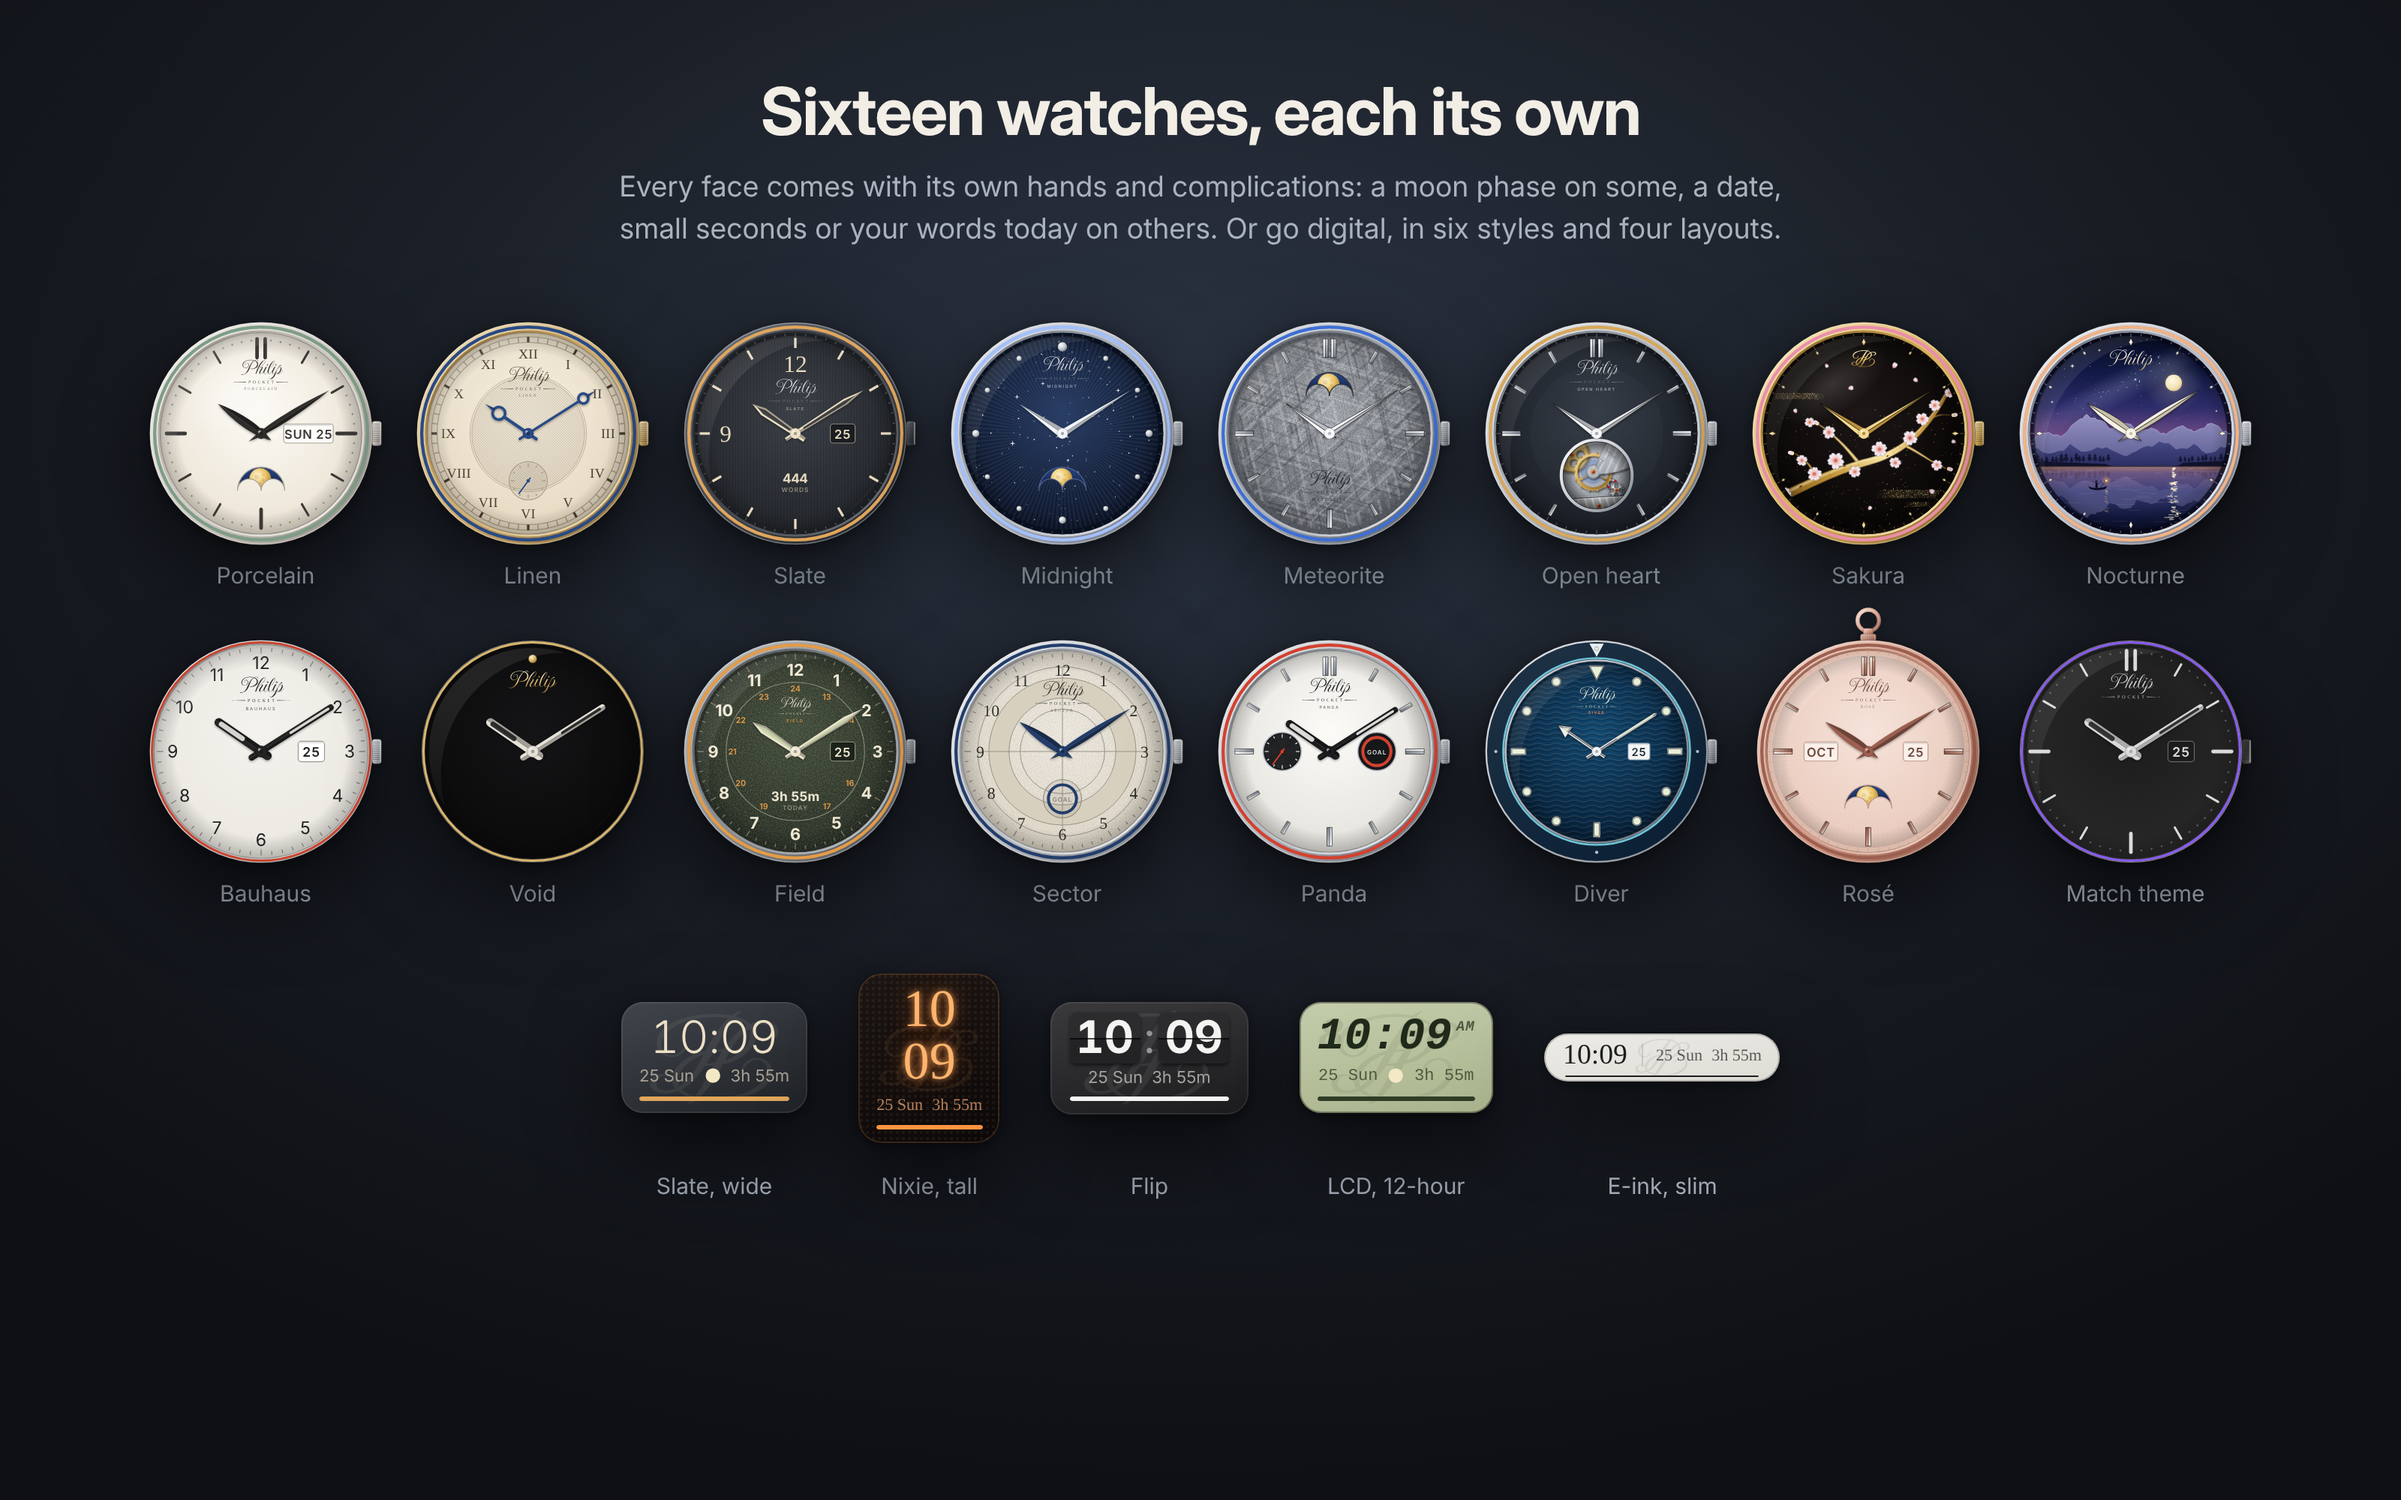
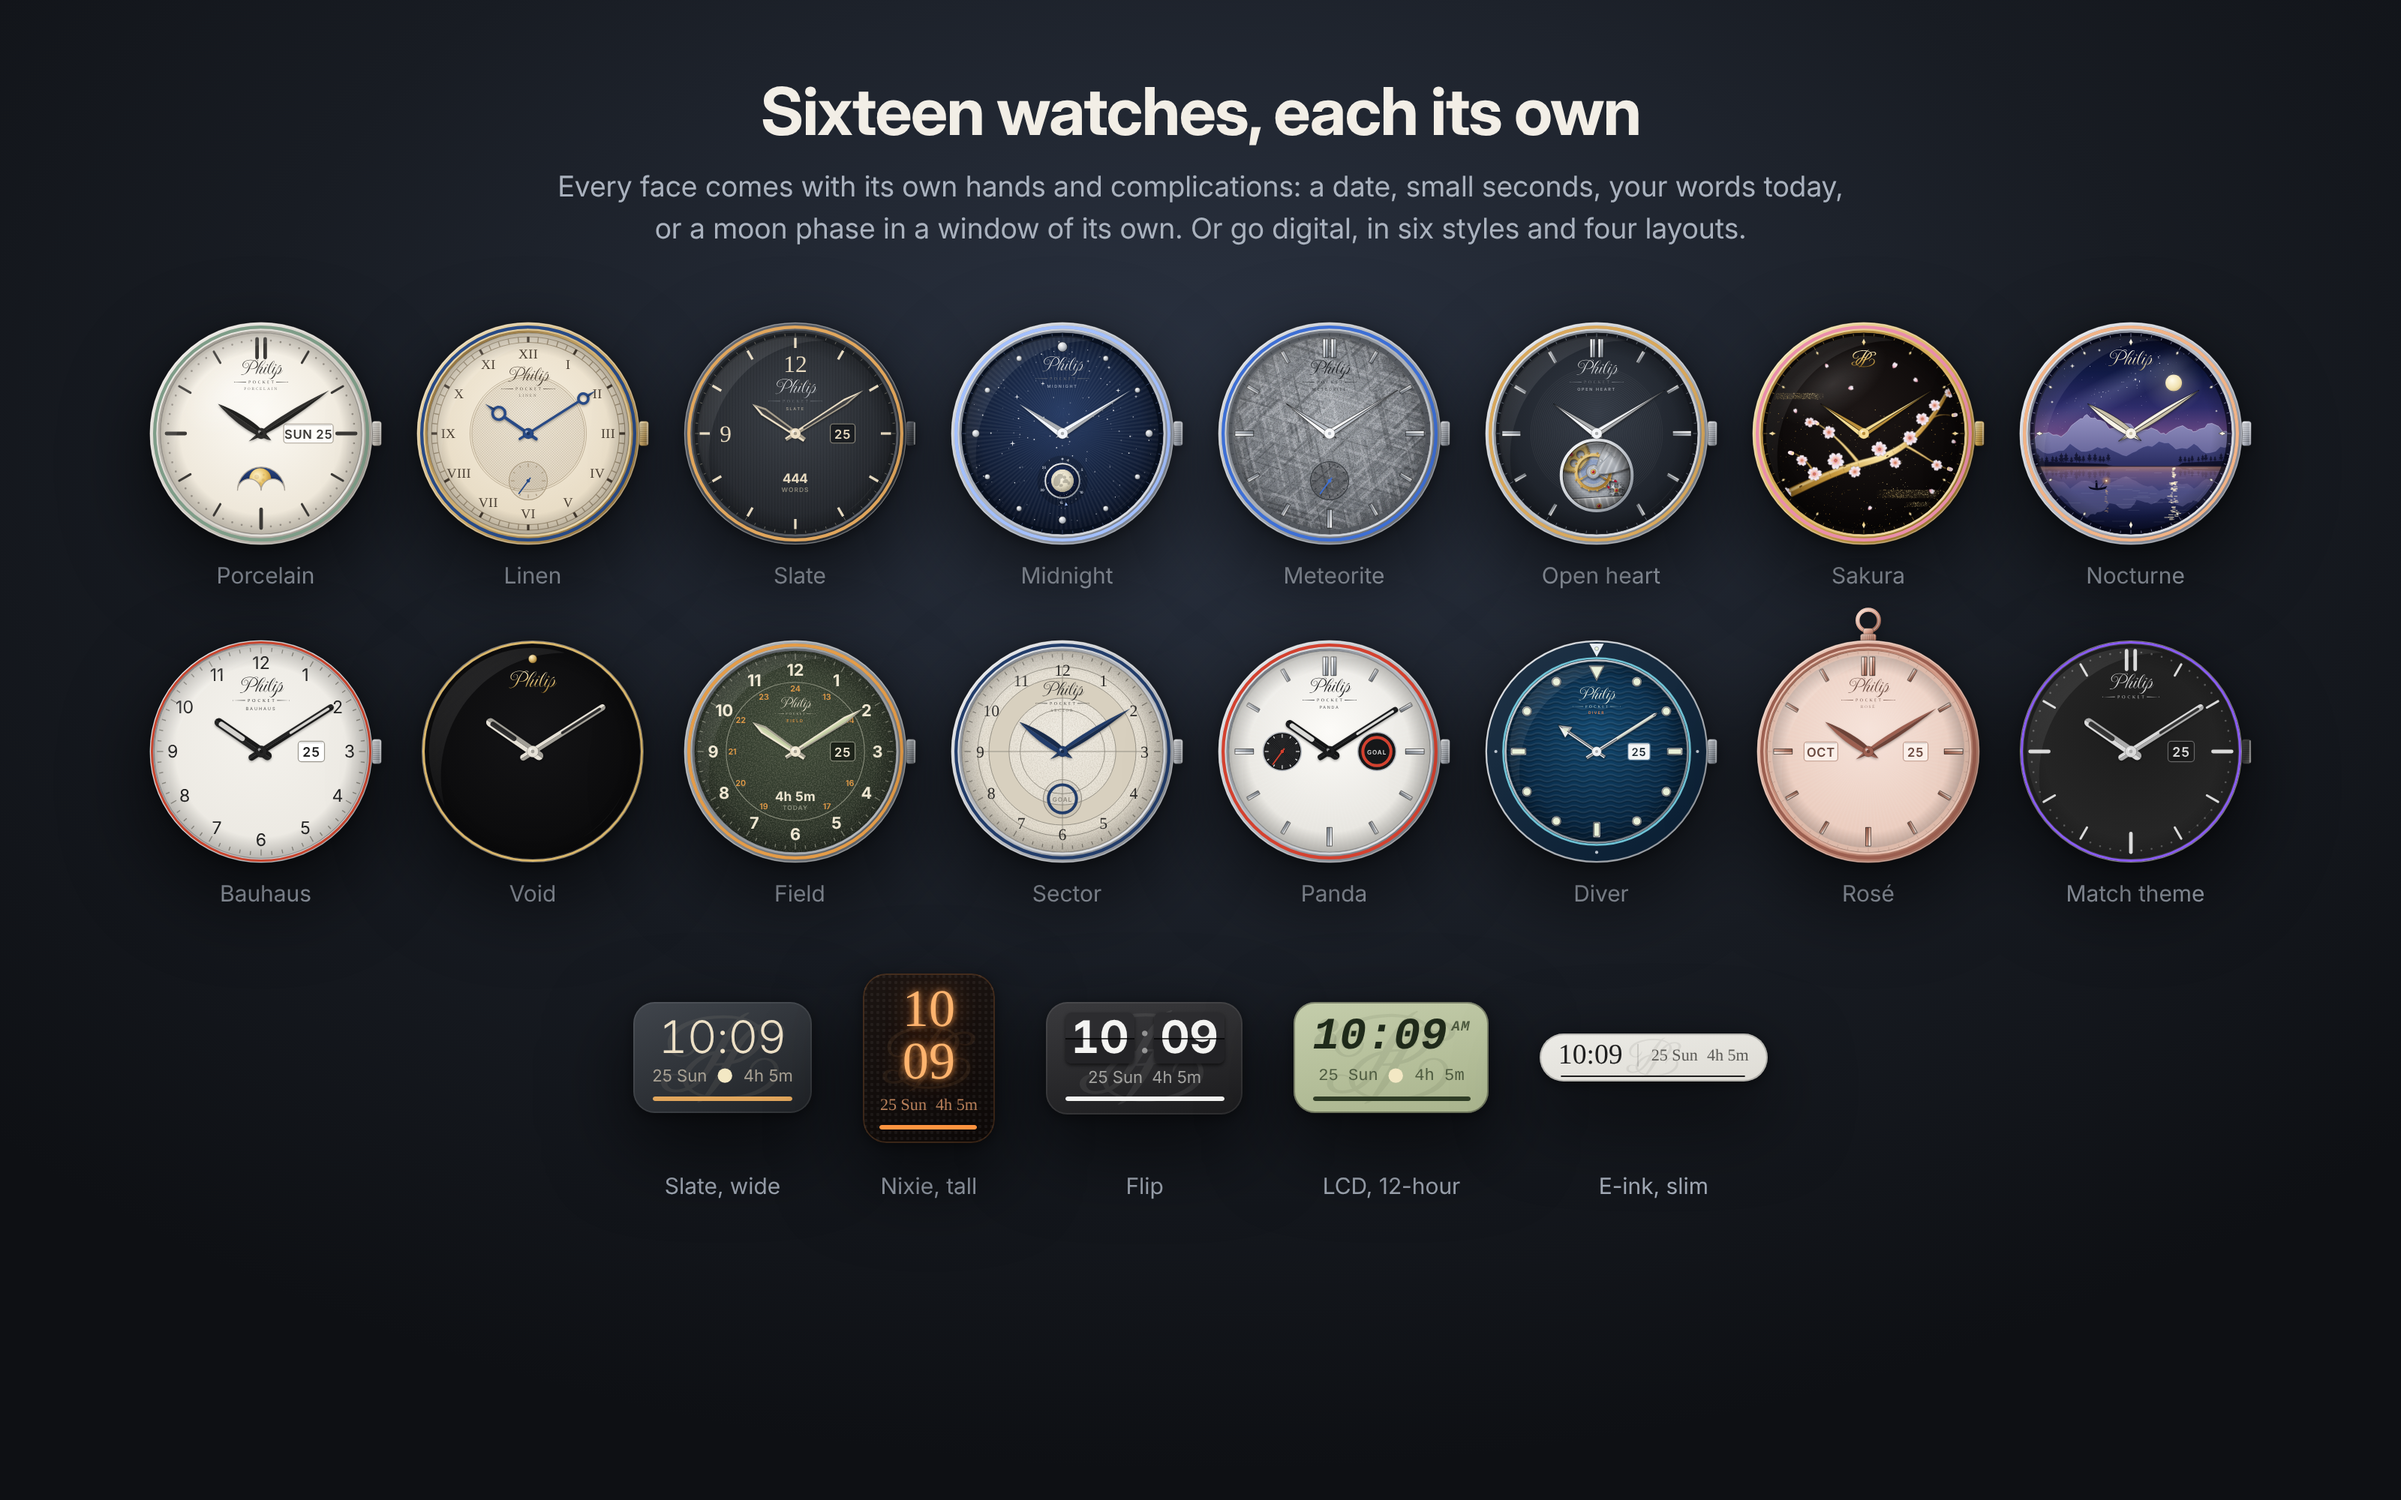
Moon phase on two faces only, each in its own window
Porcelain keeps the classic arched window with its turning disc of gold
moons. Midnight gets a round window onto a realistic moon: its seas and
craters, lit as it is tonight, with a soft edge to the shadow and
earthshine on the dark side, and a scale of the moon's age in days around
the window with a pointer at tonight's age. Meteorite now has small
seconds at 6 (and its signature back under 12), and Rosé its month and
date. Both windows can be chosen for any face under Your own.

Claude-Session: https://claude.ai/code/session_01FHA94H9fv6HvKzz34dRdj9

diff --git a/main.js b/main.js
@@ -30,7 +30,7 @@ const ANALOG_FACES = {
   },
   midnight: {
     name: 'Midnight', case: 'polished', markers: 'dots', decor: 'aventurine', texture: 'sunburst', flange: true, applied: true,
-    hands: 'dauphine', set: { slotBottom: 'moon' },
+    hands: 'dauphine', set: { slotBottom: 'moon-age' },
   },
   sakura: {
     name: 'Sakura', case: 'polished', markers: 'pips', art: 'sakura', flange: true, applied: true, brand: 'monogram',
@@ -42,7 +42,7 @@ const ANALOG_FACES = {
   },
   meteorite: {
     name: 'Meteorite', case: 'polished', markers: 'batons', art: 'meteorite', texture: 'grain', flange: true, applied: true, brandInk: true,
-    hands: 'dauphine', set: { slotTop: 'moon' },
+    hands: 'dauphine', set: { slotBottom: 'seconds' },
   },
   openheart: {
     name: 'Open heart', case: 'polished', markers: 'batons', texture: 'azurage', flange: true, applied: true, window: 'slotBottom',
@@ -74,7 +74,7 @@ const ANALOG_FACES = {
   },
   rose: {
     name: 'Rosé', case: 'polished', markers: 'batons', texture: 'sunburst', flange: true, applied: true, serif: true, brandInk: true,
-    hands: 'leaf', set: { slotLeft: 'month', slotRight: 'date', slotBottom: 'moon' },
+    hands: 'leaf', set: { slotLeft: 'month', slotRight: 'date' },
   },
   theme: {
     name: 'Match theme', case: 'thin', markers: 'batons', decor: 'minute-dots', model: false,
@@ -131,7 +131,8 @@ const COMPLICATIONS = {
   date: 'Date',
   'weekday-date': 'Weekday and date',
   month: 'Month',
-  moon: 'Moon phase',
+  moon: 'Moon phase, arched window',
+  'moon-age': 'Moon phase, round window with its age',
   movement: 'Movement window',
   focus: "Today's time",
   words: "Today's words",
@@ -1902,6 +1903,8 @@ class FloatingWatch {
       windowed(30, now.toLocaleDateString(undefined, { month: 'short' }).replace('.', '').slice(0, 3).toUpperCase());
     } else if (type === 'moon') {
       this.drawMoonWindow(svg, add, cx, cy, k, now);
+    } else if (type === 'moon-age') {
+      this.drawMoonPorthole(svg, add, text, cx, cy, k, now);
     } else if (type === 'movement') {
       this.drawMovementWindow(svg, add, cx, cy, 19.5 * k);
     } else if (type === 'focus') {
@@ -1964,6 +1967,87 @@ class FloatingWatch {
       }
     }
     add(svg, 'path', { d: arch }, 'pw-moon-arch');
+  }
+
+  // A round window onto a realistic moon: its seas and craters, lit from the side as it is
+  // tonight, with the shadow's edge softened, and the faint earthshine on its dark side. Around
+  // the window, a scale of the moon's age in days, with a small pointer at tonight's age.
+  drawMoonPorthole(svg, add, text, cx, cy, k, now) {
+    const url = (name) => `url(#${this.id(name)})`;
+    const a = 14.5 * k;
+    const m = a * 0.7;
+    const phase = moonPhase(now);
+    this.clips = (this.clips || 0) + 1;
+    const n = this.clips;
+    add(add(this.defs, 'clipPath', { id: this.id(`port-${n}`) }), 'circle', { cx, cy, r: a });
+    add(add(this.defs, 'clipPath', { id: this.id(`luna-${n}`) }), 'circle', { cx, cy, r: m });
+    const soft = add(this.defs, 'filter', { id: this.id(`soft-${n}`), x: '-20%', y: '-20%', width: '140%', height: '140%' });
+    add(soft, 'feGaussianBlur', { stdDeviation: (m * 0.09).toFixed(2) });
+    const blur = add(this.defs, 'filter', { id: this.id(`seas-${n}`), x: '-20%', y: '-20%', width: '140%', height: '140%' });
+    add(blur, 'feGaussianBlur', { stdDeviation: (m * 0.05).toFixed(2) });
+    this.gradient(add, 'radialGradient', 'port-sky', { cx: '45%', cy: '35%', r: '70%' }, [['0%', '#23396b'], ['100%', '#060c20']]);
+    this.gradient(add, 'radialGradient', 'luna', { cx: '42%', cy: '38%', r: '62%' }, [['0%', '#fbf6e6'], ['60%', '#e2dbc4'], ['100%', '#a9a28c']]);
+
+    // The age scale: a tick for each day, longer every five, numbered, on a slightly sunken ring.
+    const ring = a + 4.2 * k;
+    add(svg, 'circle', { cx, cy, r: ring, 'stroke-width': 7.4 * k }, 'pw-age-ring');
+    let ticks = '';
+    for (let day = 0; day < 30; day++) {
+      const ang = ((day / 29.53) * 360 * Math.PI) / 180;
+      const len = day % 5 === 0 ? 2.2 : 1.2;
+      const [r1, r2] = [a + 1.4 * k, a + (1.4 + len) * k];
+      ticks += `M ${(cx + r1 * Math.sin(ang)).toFixed(2)} ${(cy - r1 * Math.cos(ang)).toFixed(2)} L ${(cx + r2 * Math.sin(ang)).toFixed(2)} ${(cy - r2 * Math.cos(ang)).toFixed(2)} `;
+      if (day % 5 === 0 && day) {
+        const rr = a + 5.4 * k;
+        text(svg, cx + rr * Math.sin(ang), cy - rr * Math.cos(ang), 2.9 * k, String(day), 'pw-age-num');
+      }
+    }
+    add(svg, 'path', { d: ticks }, 'pw-age-tick');
+    // The pointer at tonight's age, and a small star for new moon at the top.
+    const age = phase * 29.53;
+    const pr = a + 7.5 * k;
+    add(svg, 'path', {
+      d: `M ${cx} ${cy - pr + 2.6 * k} L ${cx + 1.3 * k} ${cy - pr - 0.2 * k} L ${cx - 1.3 * k} ${cy - pr - 0.2 * k} Z`,
+      transform: `rotate(${((age / 29.53) * 360).toFixed(2)} ${cx} ${cy})`,
+    }, 'pw-age-pointer');
+    add(svg, 'path', { d: glintPath(cx, cy - a - 4.9 * k, 1.5 * k, 0.3) }, 'pw-age-num');
+
+    // The window: night sky, a few stars, and the moon.
+    const g = add(svg, 'g', { 'clip-path': url(`port-${n}`) });
+    add(g, 'circle', { cx, cy, r: a, fill: url('port-sky') });
+    const rand = rng(57);
+    let stars = '';
+    for (let i = 0; i < 26; i++) {
+      const t = rand() * 2 * Math.PI;
+      const r = m * 1.08 + rand() * (a - m * 1.08);
+      stars += circlePath((cx + r * Math.cos(t)).toFixed(2), (cy + r * Math.sin(t)).toFixed(2), ((0.12 + rand() * 0.22) * k).toFixed(2));
+    }
+    add(g, 'path', { d: stars }, 'pw-port-star');
+    const luna = add(g, 'g', { 'clip-path': url(`luna-${n}`) });
+    add(luna, 'circle', { cx, cy, r: m, fill: url('luna') });
+    // The seas, roughly where they are on the moon we see.
+    let seas = '';
+    for (const [u, v, rx, ry, turn] of [
+      [-0.48, 0.02, 0.3, 0.42, 12], [-0.22, -0.38, 0.27, 0.22, -15], [0.18, -0.3, 0.16, 0.15, 0], [0.32, 0.02, 0.2, 0.17, 20],
+      [0.55, 0.2, 0.12, 0.15, 0], [0.68, -0.32, 0.1, 0.08, 0], [-0.12, 0.4, 0.17, 0.13, -10], [0.12, 0.08, 0.1, 0.12, 0],
+    ]) {
+      const x = cx + u * m;
+      const y = cy + v * m;
+      seas += `M ${(x - rx * m).toFixed(2)} ${y.toFixed(2)} a ${(rx * m).toFixed(2)} ${(ry * m).toFixed(2)} ${turn} 1 0 ${(2 * rx * m).toFixed(2)} 0 a ${(rx * m).toFixed(2)} ${(ry * m).toFixed(2)} ${turn} 1 0 ${(-2 * rx * m).toFixed(2)} 0 Z `;
+    }
+    add(luna, 'path', { d: seas, filter: url(`seas-${n}`) }, 'pw-luna-sea');
+    let craters = '';
+    let rims = '';
+    for (const [u, v, r] of [[-0.1, 0.74, 0.05], [0.42, 0.55, 0.04], [-0.62, -0.42, 0.035], [0.05, -0.62, 0.04], [0.72, 0.38, 0.03], [-0.35, 0.62, 0.03]]) {
+      craters += circlePath((cx + u * m).toFixed(2), (cy + v * m).toFixed(2), (r * m).toFixed(2));
+      rims += circlePath((cx + u * m - r * m * 0.25).toFixed(2), (cy + v * m - r * m * 0.25).toFixed(2), (r * m * 0.8).toFixed(2));
+    }
+    add(luna, 'path', { d: rims }, 'pw-luna-rim');
+    add(luna, 'path', { d: craters }, 'pw-luna-crater');
+    // Night on the moon: the part the sun doesn't reach, with a soft edge.
+    add(luna, 'path', { d: moonPath(cx, cy, m * 1.02, (phase + 0.5) % 1), filter: url(`soft-${n}`) }, 'pw-luna-night');
+    add(svg, 'circle', { cx, cy, r: a + 0.6 * k, 'stroke-width': 1.5 * k, stroke: url('metal') }, 'pw-port-rim');
+    add(svg, 'circle', { cx, cy, r: a - 0.15 * k }, 'pw-port-shadow');
   }
 
   // A window onto the movement, drawn like a real pocket watch movement at 18,000 beats an

diff --git a/styles.css b/styles.css
@@ -995,6 +995,64 @@
   fill: #f1d78f;
 }
 
+/* The round moon window, with the moon's age around it */
+.pw-age-ring {
+  fill: none;
+  stroke: rgba(0, 0, 0, 0.18);
+}
+
+.pw-age-tick {
+  fill: none;
+  stroke: var(--pw-ink-soft);
+  stroke-width: 0.35;
+}
+
+.pw-age-num {
+  fill: var(--pw-ink);
+  font-family: var(--font-interface);
+  font-weight: 600;
+  text-anchor: middle;
+  dominant-baseline: central;
+  opacity: 0.85;
+}
+
+.pw-port-star {
+  fill: #f4f6ff;
+  opacity: 0.8;
+}
+
+.pw-age-pointer {
+  fill: var(--pw-accent);
+}
+
+.pw-luna-sea {
+  fill: #8f8a7c;
+  opacity: 0.55;
+}
+
+.pw-luna-crater {
+  fill: rgba(120, 112, 92, 0.4);
+}
+
+.pw-luna-rim {
+  fill: rgba(255, 252, 240, 0.55);
+}
+
+.pw-luna-night {
+  fill: #0a1128;
+  opacity: 0.86;
+}
+
+.pw-port-rim {
+  fill: none;
+}
+
+.pw-port-shadow {
+  fill: none;
+  stroke: rgba(0, 0, 0, 0.55);
+  stroke-width: 0.6;
+}
+
 .pw-moon {
   stroke: rgba(120, 85, 25, 0.5);
   stroke-width: 0.3;

diff --git a/README.md b/README.md
@@ -6,7 +6,7 @@ A fine timepiece that sits over your notes, with a Pomodoro timer for a steady r
 
 ## A timepiece
 
-- **Sixteen watches, each its own.** Every face, signed Philip Pocket, comes with its own hands and complications: a moon phase on some, a date, small seconds, your words today or a goal dial on others. You can also pick your own.
+- **Sixteen watches, each its own.** Every face, signed Philip Pocket, comes with its own hands and complications: a date, small seconds, your words today or a goal dial. Two have a moon phase, each in its own window: Porcelain's classic arch with gold moons, and Midnight's round window onto a realistic moon, with its age in days around it. You can also pick your own.
 - **Two painted dials**: Sakura, a cherry branch in gold lacquer with mother-of-pearl blossoms on black, and Nocturne, a mountain lake at dusk whose moon is tonight's moon.
 - **Snaps where you put it.** Drag it over a pane and it snaps to a corner or edge. Drop it on the ribbon or status bar to snap it to the window, or hold Alt to place it anywhere.
 - **Any size**: drag the handle on the watch, or hold Alt and scroll over it.
